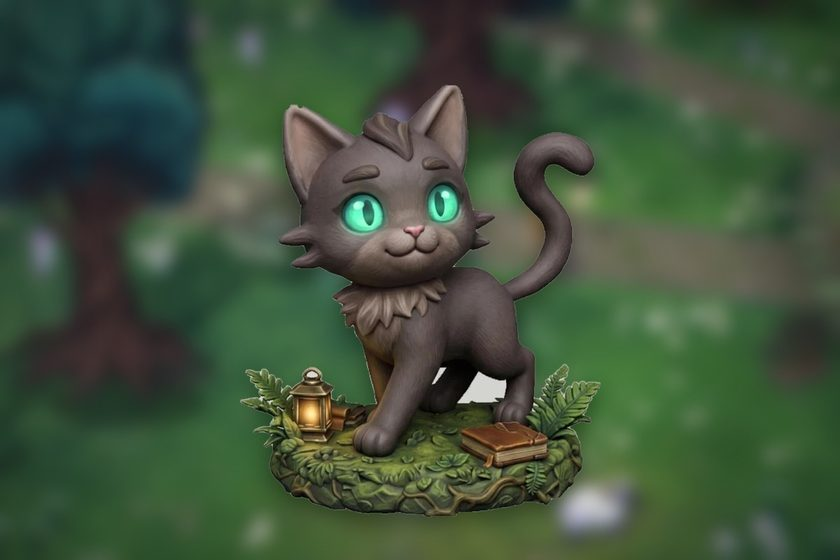
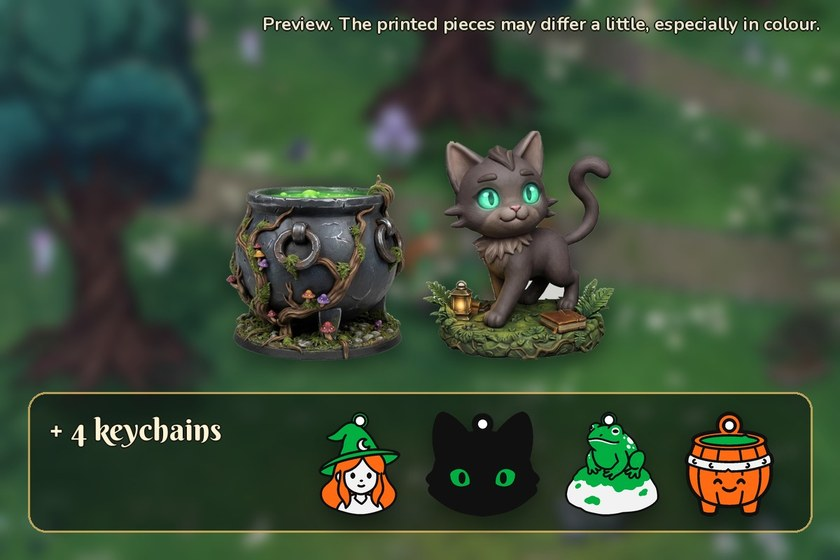
Rewards: pictures now show each tier's full contents; colour disclaimer
Claude-Session: https://claude.ai/code/session_01AArtScbe1ghbi6ZR5v9YUP

diff --git a/index.html b/index.html
@@ -875,7 +875,7 @@
         </div>
       </a>
     </div>
-    <p class="reward-fine">Pictures are coloured previews of our models; the finished pieces are printed in colour filament and may look a little different. Prices are in euros and match the Kickstarter page. Postage is added at checkout. The Lich King is from the full game, not the demo.</p>
+    <p class="reward-fine">Pictures are coloured previews of our models. The finished pieces are printed in colour filament, so they may differ a little from the pictures, especially in colour, depending on the filament colours available. Prices are in euros and match the Kickstarter page. Postage is added at checkout. The Lich King is from the full game, not the demo.</p>
   </section>
 
   <!-- Roadmap Section -->
